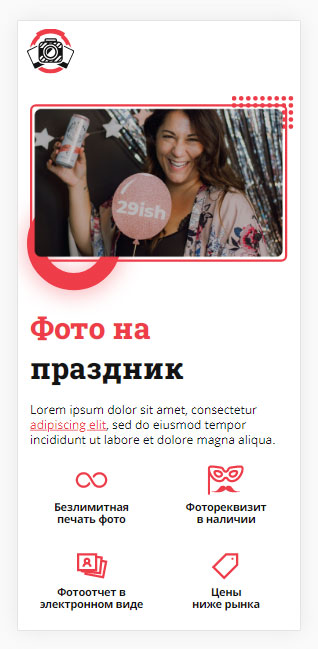
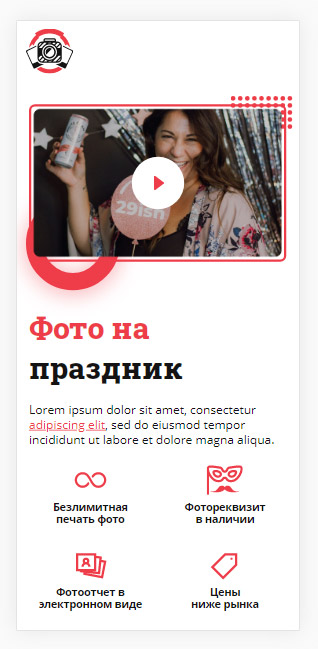
readme upd

diff --git a/README.md b/README.md
@@ -1,6 +1,13 @@
 # React-Redux SPA мобильное приложение
 
-Мобильное приложение по аренде инвентаря: [Посмотреть в работе](http://curillaenator.github.io/mobile-app)
+[Мобильное приложение по аренде инвентаря](http://curillaenator.github.io/mobile-app)
+
+## Cтек:
+
+- ReactJS
+- Typescript
+- Redux
+- Styled-components (css-in-ts)
 
 ## Реализовано:
 
@@ -11,6 +18,9 @@
 - карточка: опции времени аренды
 - карточка: автообновляемый калькулятор цены карточки исходя из выбранных доп.опций и времени аренды
 3. Формироание заявки из карточки с учетом выбранных опций по клику на соостветствуюшую кнопку
+4. Модальные окна 
+- просмотр видео на главном экране по клику на фрейм
+- формирование заказа из карточки
 
 Скриншоты:
 
@@ -20,7 +30,8 @@
 </div>
 
 <div style="display: flex; align-items: center; justify-content: center, margin-bottom: 32px">
-  <img src="/screens/image3.jpg">
+  <img style="margin-right: 32px" src="/screens/image3.jpg">
+  <img src="/screens/image4.jpg">
 </div>
 
 Запустить локально:
